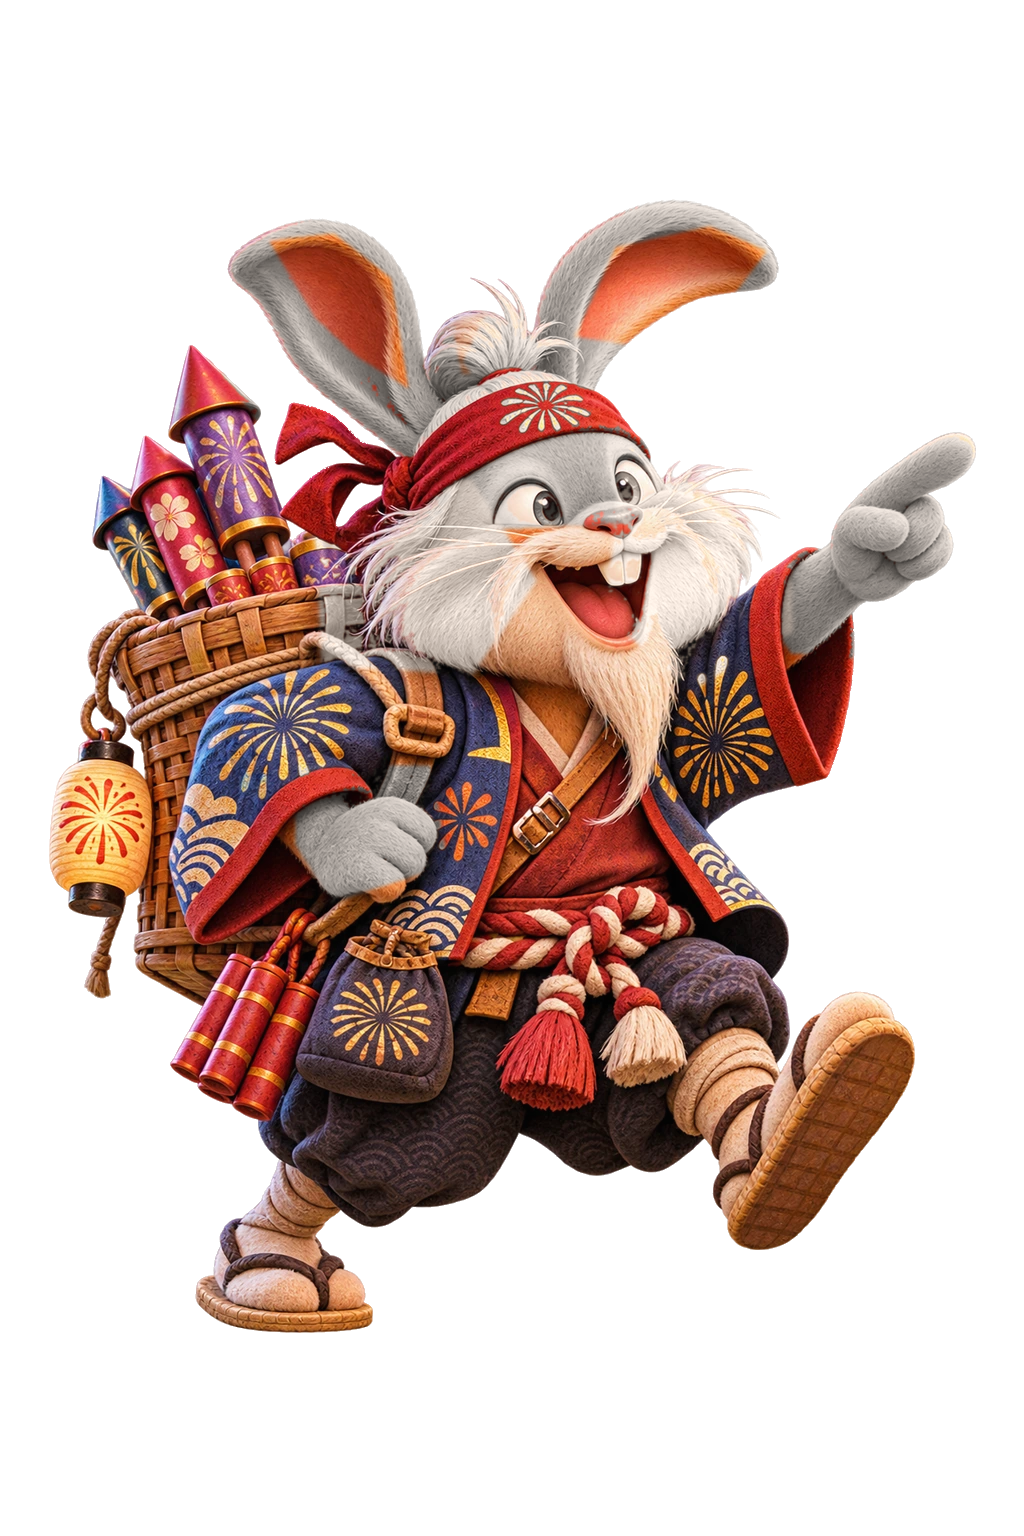
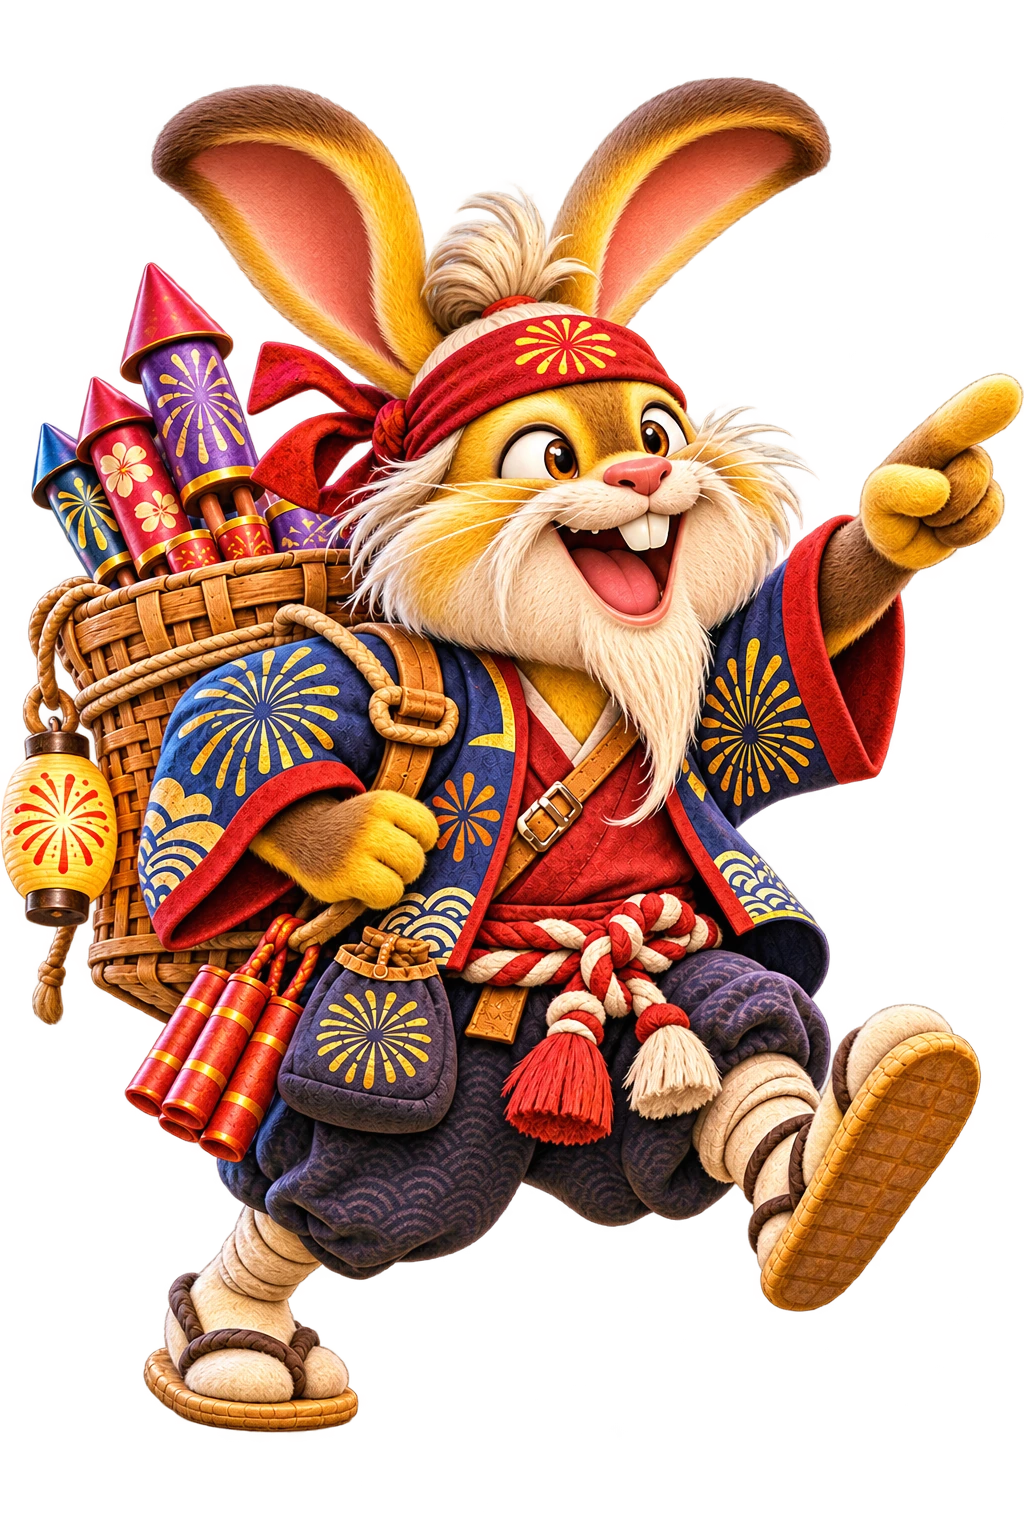
Hibana: publish approved golden-yellow display portrait

diff --git a/index.html b/index.html
@@ -514,7 +514,7 @@
       </div>
     </article>
     <article class="character world-character-card character--fireworks-seller" id="fireworks-seller" hidden>
-      <div class="character-media"><img loading="lazy" src="world-characters/fireworks-seller/fireworks-portrait.webp?v=20261123-silver1" alt="An exuberant elderly silver-gray rabbit fireworks seller from Sakura Village, without eyebrows, in a patterned indigo festival coat and red headband, carrying a woven basket of fireworks"></div>
+      <div class="character-media"><img loading="lazy" src="world-characters/fireworks-seller/fireworks-portrait.webp?v=20261125-yellow1" alt="An exuberant elderly golden-yellow rabbit fireworks seller from Sakura Village, without eyebrows, in a patterned indigo festival coat and red headband, carrying a woven basket of fireworks"></div>
       <div class="character-body">
         <div class="character-role">Fireworks Seller · Sakura Village</div>
         <h3>Hibana</h3>
@@ -1021,12 +1021,12 @@
       title: "Hibana",
       role: "Traditional Fireworks Artisan · Sakura Village",
       quote: "",
-      description: "This older warm silver-gray-furred rabbit is Sakura Village's enthusiastic fireworks vendor. Unusually childlike, thrilled by excitement, and incapable of sitting still, he wears no eyebrows at all. His long white beard, broad smile, red festival headband, indigo happi coat with gold fireworks motifs, and wicker basket of colorful rockets define his approved appearance. His name is Hibana (火花), meaning 'spark' in Japanese. His background remains undecided.",
+      description: "This older golden-yellow-furred rabbit with warm cream highlights is Sakura Village's enthusiastic fireworks vendor. Unusually childlike, thrilled by excitement, and incapable of sitting still, he wears no eyebrows at all. His long white beard, broad smile, red festival headband, indigo happi coat with gold fireworks motifs, and wicker basket of colorful rockets define his approved appearance. His name is Hibana (火花), meaning 'spark' in Japanese. His background remains undecided.",
       traits: "Childlike · Exuberant · Restless · Thrill-Seeking",
-      image: "world-characters/fireworks-seller/fireworks-portrait.webp?v=20261123-silver1",
-      alt: "Official full-body portrait of the excited elderly silver-gray rabbit fireworks seller wearing a red headband, blue festival coat and woven basket of fireworks",
+      image: "world-characters/fireworks-seller/fireworks-portrait.webp?v=20261125-yellow1",
+      alt: "Official full-body portrait of the excited elderly golden-yellow rabbit fireworks seller wearing a red headband, blue festival coat and woven basket of fireworks",
       variants: [
-        {label: "Official Portrait", image: "world-characters/fireworks-seller/fireworks-portrait.webp?v=20261123-silver1", alt: "The elderly fireworks seller in his signature running pose, pointing ahead and laughing"},
+        {label: "Official Portrait", image: "world-characters/fireworks-seller/fireworks-portrait.webp?v=20261125-yellow1", alt: "The elderly fireworks seller in his signature running pose, pointing ahead and laughing"},
         {label: "Great Excitement", image: "world-characters/fireworks-seller/fireworks-celebration.webp", alt: "The old rabbit throws both arms wide and laughs joyfully with colorful firework bursts above him"},
         {label: "Soot-Covered Surprise", image: "world-characters/fireworks-seller/fireworks-soot-surprise.webp", alt: "The startled rabbit covered in harmless soot after a firework accident, holding a spent smoking cylinder"},
         {label: "Proud Maker", image: "world-characters/fireworks-seller/fireworks-proud-maker.webp", alt: "The seated rabbit fireworks artisan admiring a decorated rocket among his festival supplies"},
